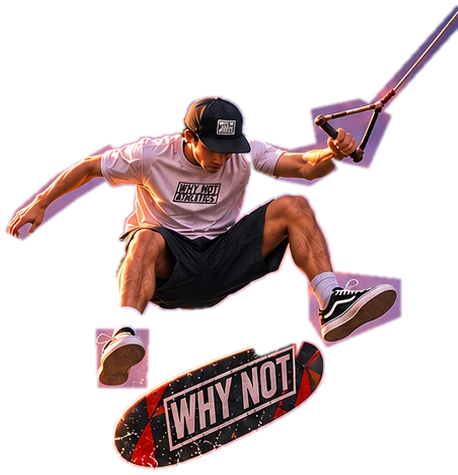
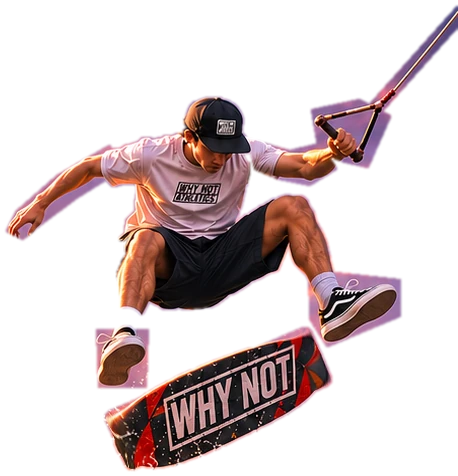
Key art: black Spanish Mafia bindings on the wakeboarder, squared wakeskate deck
Claude-Session: https://claude.ai/code/session_01QsYEHUyG7nKDhAuG72Zwer

diff --git a/src/ui/keyart/KeyArt.ts b/src/ui/keyart/KeyArt.ts
@@ -21,7 +21,7 @@ const PLATE_H = 900;
 const POSTER_H = 1672;
 /** Cut-outs: [x, y, w, h] in plate pixels + the pivot they bob around. */
 const RIDER_A = { rect: [3, 2, 938, 572], pivot: [260, 330] } as const;
-const RIDER_B = { rect: [483, 182, 458, 475], pivot: [690, 440] } as const;
+const RIDER_B = { rect: [483, 182, 458, 476], pivot: [690, 440] } as const;
 
 const VS = `
 attribute vec2 aPos;
